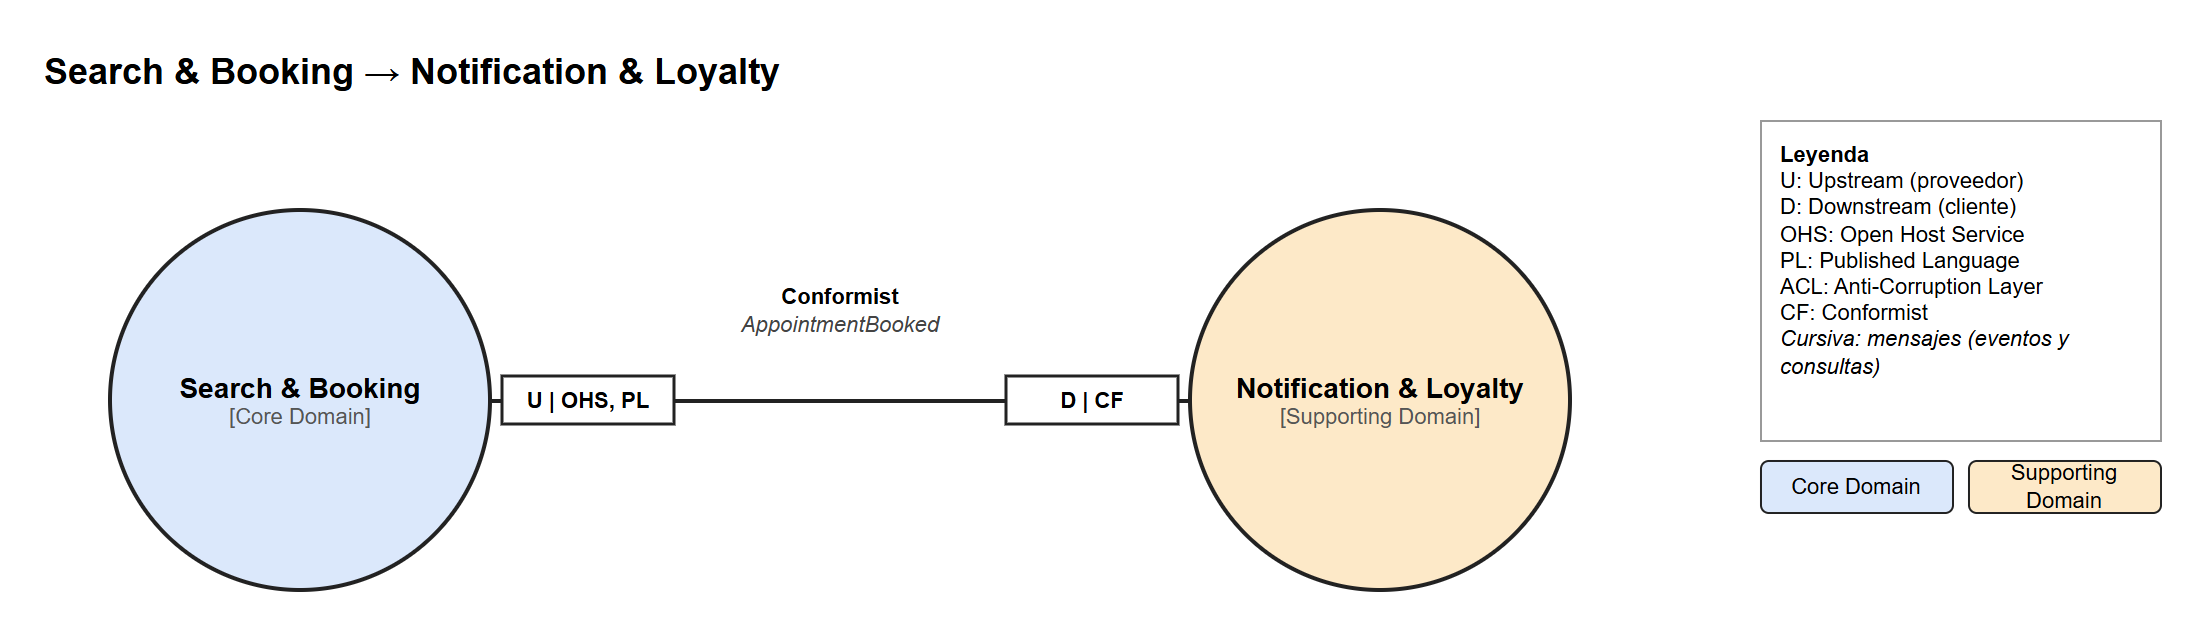
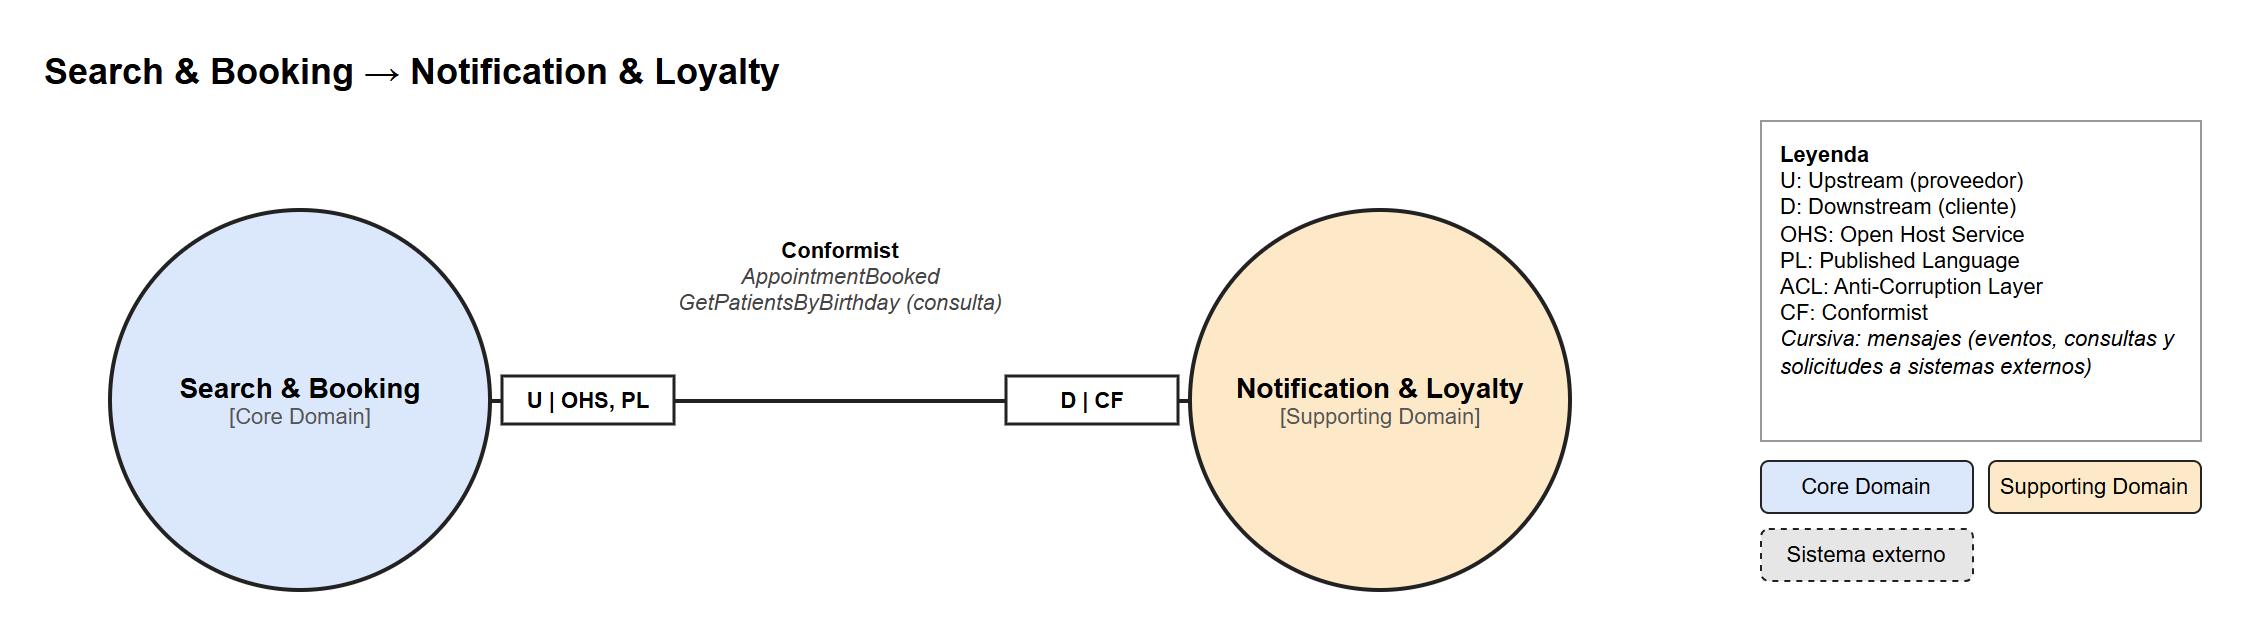
docs: add payment and fcm context maps

diff --git a/Capitulo2.md b/Capitulo2.md
@@ -1295,7 +1295,7 @@ En el mapa se emplean los siguientes patrones de Domain-Driven Design:
 
 ##### Análisis de alternativas
 
-El primer diseño candidato incluía los cinco Bounded Contexts y dos sistemas externos: una pasarela de pagos (POS, Yape y Plin) conectada a Clinical & Commercial y una plataforma de mensajería (WhatsApp y Firebase Cloud Messaging) conectada a Notification & Loyalty. A partir de ese diseño, el equipo evaluó alternativas de diseño mediante preguntas sobre la ubicación de cada capacidad y la forma de integración entre contextos. Para cada alternativa se analizaron sus consecuencias y se tomó una decisión, como se resume en la Tabla 23.
+El primer diseño candidato incluía los cinco Bounded Contexts y dos sistemas externos: una pasarela de pagos (POS, tarjeta y billeteras móviles) conectada a Clinical & Commercial y una plataforma de mensajería (WhatsApp y Firebase Cloud Messaging) conectada a Notification & Loyalty. A partir de ese diseño, el equipo evaluó alternativas de diseño mediante preguntas sobre la ubicación de cada capacidad y la forma de integración entre contextos. Para cada alternativa se analizaron sus consecuencias y se tomó una decisión, como se resume en la Tabla 23.
 
 <a id="tabla-23"></a>
 
@@ -1311,12 +1311,13 @@ El primer diseño candidato incluía los cinco Bounded Contexts y dos sistemas e
 | 4 | ¿Qué pasaría si Store Management & Inventory consulta la venta en Clinical & Commercial para saber qué descontar? | Inventory dependería del modelo interno de la cotización y de la disponibilidad de otro contexto en el momento del descuento. | Clinical & Commercial, como Supplier, incluye en `SaleWasClosed` los productos vendidos (`productSku` y `quantity`). Inventory los traduce a movimientos de stock con `UpdateInventory`. |
 | 5 | ¿Qué pasaría si creamos un Shared Kernel con el modelo del paciente para todos los contextos? | Un cambio en el paciente obligaría a coordinar los cinco contextos. Cada contexto solo necesita el identificador del paciente para relacionar su información. | Cada contexto guarda `patientId` como value object propio. El Shared Kernel se limita a contratos técnicos: `DomainEvent`, `DomainEventPublisher` y `DomainException`. |
 | 6 | ¿Qué pasaría si aislamos las capacidades core y movemos notificaciones e inventario a contextos aparte? | Los contextos core (Search & Booking, Clinical & Commercial y Production & Tracking) concentran el flujo principal del paciente. Notificaciones e inventario apoyan ese flujo, pero no lo controlan. | Se adopta: los contextos supporting dependen de los eventos de los contextos core, y ningún contexto core depende de un contexto supporting. |
-| 7 | ¿Qué pasaría si integramos una pasarela de pagos y una plataforma de mensajería externas? | Requieren contratos con proveedores, credenciales y validación de cada canal. En la óptica, el pago se registra con su referencia (`RecordPayment`) y el paciente consulta sus avisos en la aplicación (`GetNotificationsByPatient`). | Los sistemas externos no forman parte del mapa: el registro del pago y los avisos se resuelven dentro de OptiFlow. |
+| 7 | ¿Qué pasaría si el asesor registra el pago a mano en lugar de integrar una pasarela de pagos? | El asesor tendría que validar cada pago fuera de OptiFlow y copiar su referencia, con riesgo de errores y de ventas cerradas sin un pago confirmado. Una pasarela cobra con tarjeta o Yape desde la aplicación del paciente y devuelve una referencia verificable, pero su modelo (preferencias, estados, notificaciones y comisiones) es ajeno al dominio comercial. | Se integra una Pasarela de Pagos externa (Mercado Pago Checkout Pro) como upstream. Clinical & Commercial la consume mediante una ACL (`PaymentGatewayAdapter`), que crea la preferencia de pago y traduce la notificación del proveedor a `Payment`; la venta solo se cierra con un pago aprobado. El pago en efectivo lo registra el asesor. |
 | 8 | ¿Qué pasaría si Notification & Loyalty traduce los eventos con una ACL en lugar de adoptarlos como Conformist? | Notification & Loyalty solo usa identificadores y estados para redactar los avisos. Una capa de traducción no protegería ninguna regla de negocio propia. | Notification & Loyalty adopta los eventos tal como se publican (Conformist). |
+| 9 | ¿Qué pasaría si los avisos se envían por WhatsApp además de las notificaciones push? | WhatsApp Cloud API exige una cuenta empresarial verificada en Meta y la aprobación previa de cada plantilla de mensaje. Firebase Cloud Messaging entrega notificaciones push a la aplicación Android sin costo y ya forma parte del proyecto de Firebase de OptiFlow. | Los avisos se envían solo como notificaciones push mediante Firebase Cloud Messaging. Notification & Loyalty lo consume mediante una ACL (`FirebaseMessagingAdapter`); el paciente también consulta sus avisos en la aplicación (`GetNotificationsByPatient`). |
 
 ##### Context map final
 
-Como resultado del análisis, el context map final conserva los cinco Bounded Contexts y cinco relaciones basadas en eventos de dominio, como se muestra en la Figura 30. Los contextos core aparecen en azul y los contextos supporting en naranja; en cada extremo de una relación se indica el rol upstream (U) o downstream (D) y los patrones que aplica.
+Como resultado del análisis, el context map final conserva los cinco Bounded Contexts y dos sistemas externos, la Pasarela de Pagos y Firebase Cloud Messaging, con siete relaciones: cinco basadas en eventos de dominio entre contextos y dos con los sistemas externos, como se muestra en la Figura 30. Los contextos core aparecen en azul, los contextos supporting en naranja y los sistemas externos en gris; en cada extremo de una relación se indica el rol upstream (U) o downstream (D) y los patrones que aplica.
 
 <a id="figura-30"></a>
 
@@ -1328,7 +1329,7 @@ Como resultado del análisis, el context map final conserva los cinco Bounded Co
 
 *Nota.* Elaboración propia.
 
-La Tabla 24 resume cada relación del mapa final, los mensajes que la conectan (eventos y consultas) y el componente del backend que la implementa.
+La Tabla 24 resume cada relación del mapa final, los mensajes que la conectan (eventos, consultas y solicitudes a los sistemas externos) y el componente del backend que la implementa.
 
 <a id="tabla-24"></a>
 
@@ -1343,6 +1344,8 @@ La Tabla 24 resume cada relación del mapa final, los mensajes que la conectan (
 | Clinical & Commercial | Production & Tracking | Customer / Supplier | OHS, PL / ACL | `SaleWasClosed` (evento), `GetClosedSale` (consulta) | `GenerateWorkOrder` | `ClinicalCommercialSaleAdapter` (ACL) |
 | Clinical & Commercial | Store Management & Inventory | Customer / Supplier | OHS, PL / ACL | `SaleWasClosed` | `UpdateInventory` | `SaleWasClosedEventHandler` (ACL) |
 | Production & Tracking | Notification & Loyalty | Conformist | OHS, PL / CF | `WorkOrderStatusUpdated`, `DeliveryDelayNotified`, `OrderWasMarkedAsDelivered` | `NotifyLensOrderProgress`, `SendDeliveryDelayNotification`, `SendSatisfactionSurvey` | `WorkOrderStatusUpdatedEventHandler`, `ProductionDeliveryDelayNotifiedEventHandler`, `OrderWasMarkedAsDeliveredEventHandler` |
+| Pasarela de Pagos (externo) | Clinical & Commercial | Anti-Corruption Layer | OHS / ACL | Preferencia de pago y notificación del resultado (aprobado o rechazado) | `CreatePaymentPreference`, `RecordPayment` | `PaymentGatewayAdapter` (ACL) |
+| Firebase Cloud Messaging (externo) | Notification & Loyalty | Anti-Corruption Layer | OHS / ACL | Envío de notificación push al token del dispositivo del paciente | `NotifyLensOrderProgress`, `SendDeliveryDelayNotification`, `SendSatisfactionSurvey`, `ScheduleAppointmentReminder` | `FirebaseMessagingAdapter` (ACL) |
 
 A continuación se detalla cada relación del mapa final.
 
@@ -1381,8 +1384,8 @@ La relación entre Search & Booking y Notification & Loyalty se muestra en la Fi
 
 **Patrón: Conformist, con Open Host Service y Published Language en el upstream.**
 
-- **Search & Booking como upstream:** publica `AppointmentBooked` sin conocer cómo se redactan ni se muestran los avisos al paciente.
-- **Notification & Loyalty como downstream:** adopta el evento tal como se publica y usa `patientId` y `appointmentId` para ejecutar `ScheduleAppointmentReminder`, que registra el recordatorio de la cita en la aplicación.
+- **Search & Booking como upstream:** publica `AppointmentBooked` sin conocer cómo se redactan ni se muestran los avisos al paciente, y responde la consulta `GetPatientsByBirthday`, que devuelve los pacientes que cumplen años en una fecha.
+- **Notification & Loyalty como downstream:** adopta el evento tal como se publica y usa `patientId` y `appointmentId` para ejecutar `ScheduleAppointmentReminder`, que programa el recordatorio de la cita y el de control anual. Su `BirthdayDiscountScheduler` usa cada día `GetPatientsByBirthday` para ejecutar `GrantBirthdayDiscount`.
 
 ##### Clinical & Commercial → Production & Tracking
 
@@ -1439,7 +1442,45 @@ La relación entre Production & Tracking y Notification & Loyalty se muestra en 
 **Patrón: Conformist, con Open Host Service y Published Language en el upstream.**
 
 - **Production & Tracking como upstream:** es el único contexto que conoce el estado real de fabricación. Publica `WorkOrderStatusUpdated` en cada cambio de estado, `DeliveryDelayNotified` cuando se registra una demora y `OrderWasMarkedAsDelivered` cuando el paciente recibe sus lentes.
-- **Notification & Loyalty como downstream:** adopta los eventos tal como se publican y ejecuta `NotifyLensOrderProgress`, `SendDeliveryDelayNotification` y `SendSatisfactionSurvey`, respectivamente. El paciente consulta estos avisos en la aplicación mediante `GetNotificationsByPatient`.
+- **Notification & Loyalty como downstream:** adopta los eventos tal como se publican y ejecuta `NotifyLensOrderProgress`, `SendDeliveryDelayNotification` y `SendSatisfactionSurvey`, respectivamente. Cada aviso se envía como notificación push mediante Firebase Cloud Messaging y el paciente también lo consulta en la aplicación mediante `GetNotificationsByPatient`.
+
+##### Pasarela de Pagos → Clinical & Commercial
+
+La relación entre la Pasarela de Pagos y Clinical & Commercial se muestra en la Figura 36.
+
+<a id="figura-36"></a>
+
+**Figura 36**
+
+*Context map entre la Pasarela de Pagos y Clinical & Commercial*
+
+![Context map entre la Pasarela de Pagos y Clinical & Commercial](assets/cap2/context-mapping/context-map-6-payment-gateway-clinical.png)
+
+*Nota.* Elaboración propia.
+
+**Patrón: Anti-Corruption Layer en el downstream, frente al servicio publicado por el proveedor.**
+
+- **Pasarela de Pagos como upstream:** sistema externo (Mercado Pago Checkout Pro) que cobra con tarjeta o Yape en su propia página de pago. Publica su propia API y su propio modelo de preferencias, pagos, estados y notificaciones, que OptiFlow no puede modificar.
+- **Clinical & Commercial como downstream:** cuando el paciente solicita pagar (`CreatePaymentPreference`), su ACL (`PaymentGatewayAdapter`) crea la preferencia de pago con el monto de la venta y devuelve el enlace que abre la aplicación. Cuando la pasarela notifica el resultado al webhook del backend, la ACL valida la firma de la notificación, consulta el pago al proveedor y lo traduce a `Payment`, con su método, monto, referencia de la transacción y estado. Si el pago es aprobado se ejecuta `RecordPayment`, se publica `PaymentRecorded` y la venta puede cerrarse; si es rechazado se publica `PaymentRejected` y la venta permanece pendiente. Un cambio de proveedor solo afecta al adaptador.
+
+##### Firebase Cloud Messaging → Notification & Loyalty
+
+La relación entre Firebase Cloud Messaging y Notification & Loyalty se muestra en la Figura 37.
+
+<a id="figura-37"></a>
+
+**Figura 37**
+
+*Context map entre Firebase Cloud Messaging y Notification & Loyalty*
+
+![Context map entre Firebase Cloud Messaging y Notification & Loyalty](assets/cap2/context-mapping/context-map-7-fcm-notification.png)
+
+*Nota.* Elaboración propia.
+
+**Patrón: Anti-Corruption Layer en el downstream, frente al servicio publicado por el proveedor.**
+
+- **Firebase Cloud Messaging como upstream:** servicio externo de Google que entrega notificaciones push a los dispositivos Android a partir de un token de registro.
+- **Notification & Loyalty como downstream:** registra cada aviso en su modelo (`Notification`) y su ACL (`FirebaseMessagingAdapter`) lo traduce al formato de mensaje de Firebase Cloud Messaging, con el token del dispositivo del paciente (`DeviceToken`). Si el envío falla, la notificación queda registrada y el paciente puede consultarla en la aplicación.
 
 ### 2.5.3. Software Architecture
 

diff --git a/Anexos.md b/Anexos.md
@@ -65,7 +65,7 @@ Ningún contexto accede directamente a los datos de otro: cada uno reacciona a l
 
 ## Anexo D: Context Mapping
 
-En este anexo se presenta el context map final de OptiFlow, con las relaciones entre los Bounded Contexts y los patrones de integración que aplica cada una (ver Figura D1). El proceso de elaboración, las alternativas evaluadas y el detalle de cada relación se presentan en la sección [2.5.2](Capitulo2.md#252-context-mapping).
+En este anexo se presenta el context map final de OptiFlow, con las relaciones entre los Bounded Contexts, los sistemas externos (Pasarela de Pagos y Firebase Cloud Messaging) y los patrones de integración que aplica cada una (ver Figura D1). El proceso de elaboración, las alternativas evaluadas y el detalle de cada relación se presentan en la sección [2.5.2](Capitulo2.md#252-context-mapping).
 
 
 <a id="figura-d1"></a>
